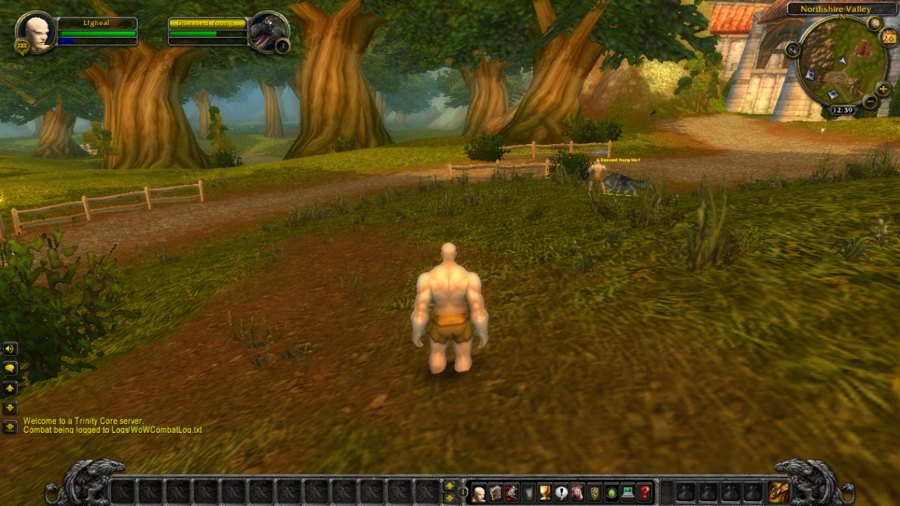
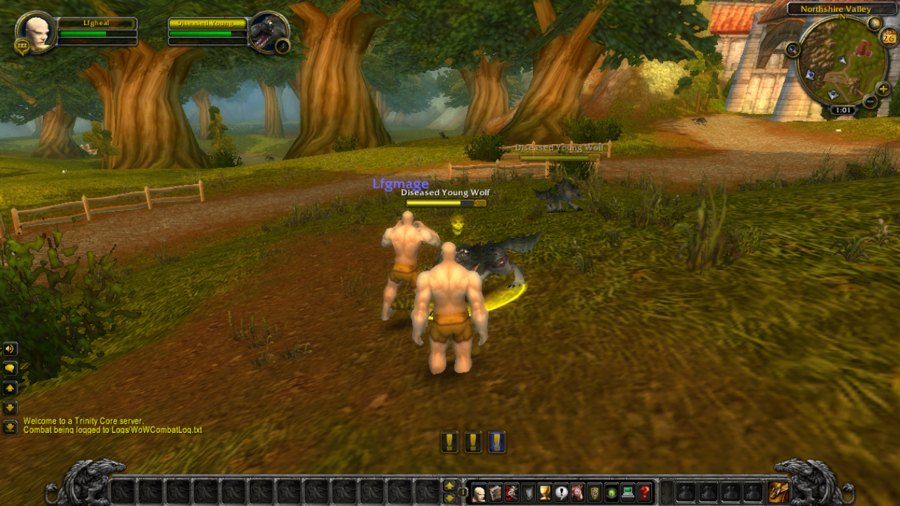
Share visibility fixtures and confirm melee observer delivery on 54261

diff --git a/crates/wow-map/src/map_tests/aura_update_visibility.rs b/crates/wow-map/src/map_tests/aura_update_visibility.rs
@@ -23,47 +23,39 @@ fn add_indexed_player(
     guid
 }
 
-#[test]
-fn melee_observers_follow_the_attacker_when_the_victim_cannot_see_it() {
-    let mut map = test_map();
-    let observer = add_indexed_player(&mut map, test_player_for_viewpoint(4_640_001));
-    let mut victim = test_player_for_viewpoint(4_640_002);
-    victim
-        .unit_mut()
-        .world_mut()
-        .relocate(Position::xyz(310.0, 20.0, 30.0));
-    let victim = add_indexed_player(&mut map, victim);
-    let mut other_phase = test_player_for_viewpoint(4_640_003);
-    other_phase
-        .unit_mut()
-        .world_mut()
-        .phase_shift_mut()
-        .insert(20);
-    let other_phase = add_indexed_player(&mut map, other_phase);
-    map.get_typed_player_mut(observer)
-        .unwrap()
-        .unit_mut()
-        .world_mut()
-        .phase_shift_mut()
-        .insert(10);
+fn add_phased_player_at_x(
+    map: &mut Map<RecordingTerrain, RecordingLifecycle>,
+    counter: i64,
+    x: f32,
+    phase: u32,
+) -> ObjectGuid {
+    let mut player = test_player_for_viewpoint(counter);
+    let world = player.unit_mut().world_mut();
+    world.relocate(Position::xyz(x, 20.0, 30.0));
+    world.phase_shift_mut().insert(phase);
+    add_indexed_player(map, player)
+}
 
+fn add_indexed_creature_at_x(
+    map: &mut Map<RecordingTerrain, RecordingLifecycle>,
+    counter: i64,
+    entry: u32,
+    x: f32,
+    phase: Option<u32>,
+) -> ObjectGuid {
     let mut creature = Creature::new(true);
-    let source = creature.unit_mut().world_mut();
-    source
-        .object_mut()
-        .create(guid(HighGuid::Creature, 4_640_004));
-    source.object_mut().set_entry(299);
-    source.set_map(571, 7).unwrap();
-    source.relocate(Position::xyz(12.0, 20.0, 30.0));
-    source.phase_shift_mut().insert(10);
-    let attacker = creature.guid();
+    let creature_guid = guid(HighGuid::Creature, counter);
+    let world = creature.unit_mut().world_mut();
+    world.object_mut().create(creature_guid);
+    world.object_mut().set_entry(entry);
+    world.set_map(map.map_id(), map.instance_id()).unwrap();
+    world.relocate(Position::xyz(x, 20.0, 30.0));
+    if let Some(phase) = phase {
+        world.phase_shift_mut().insert(phase);
+    }
     map.add_map_object_record_to_map_like_cpp(MapObjectRecord::new_creature(creature).unwrap())
         .unwrap();
-    let source = map.get_typed_creature(attacker).unwrap().unit().world();
-    let recipients = map.message_dist_observers_like_cpp(source);
-    assert!(recipients.contains(&observer));
-    assert!(!recipients.contains(&victim));
-    assert!(!recipients.contains(&other_phase));
+    creature_guid
 }
 
 #[test]
@@ -163,59 +155,31 @@ fn corpse_birth_selects_owner_peer_and_shared_seer_with_exact_phase_and_range() 
 #[test]
 fn selected_aura_observers_use_source_range_phase_and_body_fallback_for_invalid_farsight() {
     let mut map = test_map();
-    let mut source = test_player_for_viewpoint(4_610_001);
-    source.unit_mut().world_mut().phase_shift_mut().insert(10);
-    let source_guid = add_indexed_player(&mut map, source);
-
-    let mut nearby = test_player_for_viewpoint(4_610_002);
-    nearby.unit_mut().world_mut().phase_shift_mut().insert(10);
-    nearby
-        .unit_mut()
-        .world_mut()
-        .relocate(Position::xyz(12.0, 20.0, 30.0));
-    let nearby_guid = add_indexed_player(&mut map, nearby);
-
-    let mut invalid_farsight = test_player_for_viewpoint(4_610_003);
-    invalid_farsight
-        .unit_mut()
-        .world_mut()
-        .phase_shift_mut()
-        .insert(10);
-    invalid_farsight
-        .unit_mut()
-        .world_mut()
-        .relocate(Position::xyz(13.0, 20.0, 30.0));
-    let invalid_farsight_guid = invalid_farsight.guid();
-    invalid_farsight.set_farsight_object_like_cpp(guid(HighGuid::DynamicObject, 4_610_099));
-    add_indexed_player(&mut map, invalid_farsight);
-
-    let mut wrong_phase = test_player_for_viewpoint(4_610_004);
-    wrong_phase
-        .unit_mut()
-        .world_mut()
-        .phase_shift_mut()
-        .insert(20);
-    let wrong_phase_guid = wrong_phase.guid();
-    add_indexed_player(&mut map, wrong_phase);
-
-    let mut out_of_range = test_player_for_viewpoint(4_610_005);
-    out_of_range
-        .unit_mut()
-        .world_mut()
-        .phase_shift_mut()
-        .insert(10);
-    out_of_range
-        .unit_mut()
-        .world_mut()
-        .relocate(Position::xyz(111.0, 20.0, 30.0));
-    let out_of_range_guid = out_of_range.guid();
-    add_indexed_player(&mut map, out_of_range);
+    let source_guid = add_phased_player_at_x(&mut map, 4_610_001, 10.0, 10);
+    let nearby_guid = add_phased_player_at_x(&mut map, 4_610_002, 12.0, 10);
+    let invalid_farsight_guid = add_phased_player_at_x(&mut map, 4_610_003, 13.0, 10);
+    map.get_typed_player_mut(invalid_farsight_guid)
+        .unwrap()
+        .set_farsight_object_like_cpp(guid(HighGuid::DynamicObject, 4_610_099));
+    let wrong_phase_guid = add_phased_player_at_x(&mut map, 4_610_004, 10.0, 20);
+    let out_of_range_guid = add_phased_player_at_x(&mut map, 4_610_005, 111.0, 10);
 
     let recipients = map.selected_aura_update_observers(source_guid);
     assert!(recipients.contains(&nearby_guid));
     assert!(recipients.contains(&invalid_farsight_guid));
     assert!(!recipients.contains(&wrong_phase_guid));
     assert!(!recipients.contains(&out_of_range_guid));
+
+    let attacker_guid = add_indexed_creature_at_x(&mut map, 4_610_006, 299, 10.0, Some(10));
+    let attacker = map
+        .get_typed_creature(attacker_guid)
+        .unwrap()
+        .unit()
+        .world();
+    let melee_recipients = map.message_dist_observers_like_cpp(attacker);
+    assert!(melee_recipients.contains(&nearby_guid));
+    assert!(!melee_recipients.contains(&wrong_phase_guid));
+    assert!(!melee_recipients.contains(&out_of_range_guid));
 }
 
 #[test]
@@ -261,27 +225,14 @@ fn selected_aura_observers_cover_shared_player_creature_dynamic_and_vehicle_rout
     add_indexed_player(&mut map, shared_player_viewer);
 
     let shared_creature_viewer_guid = guid(HighGuid::Player, 4_620_004);
-    let mut creature = Creature::new(true);
-    creature
-        .unit_mut()
-        .world_mut()
-        .object_mut()
-        .create(guid(HighGuid::Creature, 4_620_005));
-    creature.unit_mut().world_mut().object_mut().set_entry(42);
-    creature.unit_mut().world_mut().set_map(571, 7).unwrap();
-    creature
-        .unit_mut()
-        .world_mut()
-        .relocate(Position::xyz(14.0, 20.0, 30.0));
-    let creature_guid = creature.guid();
-    creature
+    let creature_guid = add_indexed_creature_at_x(&mut map, 4_620_005, 42, 14.0, None);
+    map.get_typed_creature_mut(creature_guid)
+        .unwrap()
         .unit_mut()
         .subsystems_mut()
         .control
         .shared_vision_guids
         .insert(shared_creature_viewer_guid);
-    map.add_map_object_record_to_map_like_cpp(MapObjectRecord::new_creature(creature).unwrap())
-        .unwrap();
     let mut shared_creature_viewer = test_player_for_viewpoint(4_620_004);
     shared_creature_viewer
         .unit_mut()

diff --git a/docs/architecture/captures/1342-real-client-2026-11-24.md b/docs/architecture/captures/1342-real-client-2026-11-24.md
@@ -381,3 +381,14 @@ is outside this repair.
 
 The paladin logged out normally. The isolated services, four cloned schemas and
 their database user were removed. The shared realm kept its original processes.
+
+After consolidating the shared seer and range checks, a fresh QA realm ran the
+production revision `d24b16013` (debug executable SHA-256
[1 lines of base64/hex data omitted]
+The graphical paladin again requested advanced logging, and the mage used basic
+logging. For wolf 191 both sockets received the two attack starts and all 14
+rounds. The paladin's native log recorded the same six damaging mage swings
+(9, 9, 8, 6, 8, 9) and seven damaging wolf swings (1, 1, 1, 1, 1, 2, 1).
+The remaining mage swing dealt zero damage. The screenshot above is from this
+confirmation. Both characters left the realm and its four schemas and user
+were removed.
